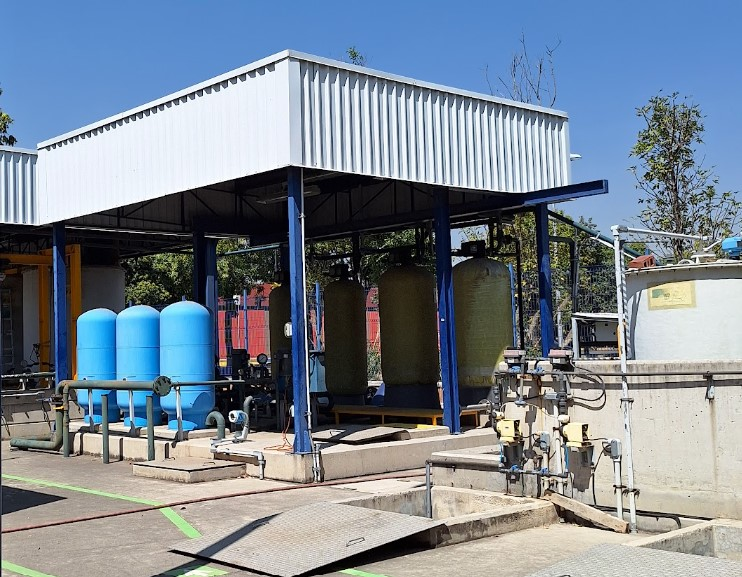
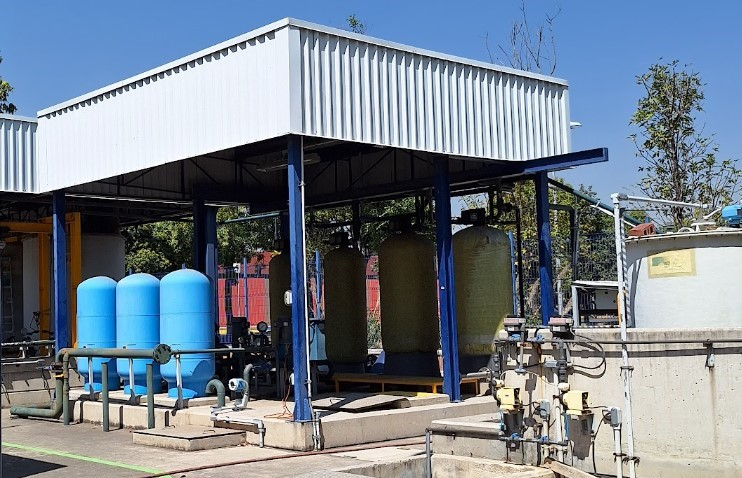
Informacion basica en index

diff --git a/Frontend/Inicio/index.html b/Frontend/Inicio/index.html
@@ -56,20 +56,158 @@
 
 
   <!-- CONTENIDO DE EJEMPLO -->
-  <main class="mt-4">
+  <main class="mt-6">
     <div class="container bg-info-section" id="informacion">
-      <div class="row">
-        <div class="text-center col-md-100">
-          <h1 class="letra-grande">PTAR: Panta de Tratamiento de Aguas Residuales</h1>
-          <p class="letra-subtitulo">La Planta de Tratamiento de Aguas Residuales (PTAR) de la FES Acatlán es un sistema diseñado para procesar y reutilizar el agua residual del campus, promoviendo la sustentabilidad y el cuidado del medio ambiente.</p>
-          <!-- resto del texto -->
+      <div class="row justify-content-center">
+        <div class="col-12 text-center mb-4">
+        <h1 class="letra-grande">PTAR: Planta de Tratamiento de Aguas Residuales</h1>
+        <p class="letra-subtitulo">
+          La Planta de Tratamiento de Aguas Residuales (PTAR) de la FES Acatlán es un sistema diseñado para procesar y reutilizar el agua residual del campus, promoviendo la sustentabilidad y el cuidado del medio ambiente.
+        </p>
+      </div>
+
+      <!-- Miniatura 1 -->
+      <div class="col-12 col-md-3">
+        <img
+          src="/IMG/PTAR_MOD.jpeg"
+          alt="PTAR Mod"
+          class="thumbnail-img img-fluid"
+          data-bs-toggle="modal"
+          data-bs-target="#imageModal"
+          data-bs-image="/IMG/PTAR_MOD.jpeg"
+        >
+      </div>
+
+      <!-- Miniatura 2 -->
+      <div class="col-12 col-md-3 ">
+        <img
+          src="/IMG/PTAR_FOTO1.jpg"
+          alt="PTAR Vista"
+          class="thumbnail-img img-fluid"
+          data-bs-toggle="modal"
+          data-bs-target="#imageModal"
+          data-bs-image="/IMG/PTAR_FOTO1.jpg"
+        >
+      </div>
+
+    </div>
+  </div>
+
+  <div class="container bg-info-section py-5" id="informacion2">
+    <div class="row">
+      <!-- OBJETIVO -->
+      <div class="col-md-6 text-center mb-4">
+        <h2 class="styled-heading">Objetivo</h2>
+        <button
+          class="btn btn-outline-light btn-sm mb-3"
+          type="button"
+          data-bs-toggle="collapse"
+          data-bs-target="#collapseObjetivo"
+          aria-expanded="false"
+          aria-controls="collapseObjetivo">
+          Ver más
+        </button>
+        <div class="collapse" id="collapseObjetivo">
+          <p class="text-white">
+            Construir y poner en marcha la operación de la planta de tratamiento
+            de aguas residuales para el riego de las áreas verdes de la FES
+            Acatlán, a fin de minimizar el impacto ecológico, así como coadyuvar
+            con la preservación del vital líquido suministrado por el pozo.
+          </p>
+          <img
+            src="/IMG/DigramaPTAR.png"
+            alt="Diagrama PTAR"
+            class="img-fluid d-block mx-auto mt-3">
         </div>
-        <div>
-          <!--img src="/IMG/PTAR_MOD.jpeg" class="img-fluid mb-3" alt="PTAR"-->
-          <img src="/IMG/PTAR_FOTO1.jpg" class="im" alt="PTAR vista">
+      </div>
+
+      <!-- IMPACTO Y BENEFICIO SOCIAL -->
+      <div class="col-md-6 text-center mb-4">
+        <h2 class="styled-heading">Impacto y Beneficio Social</h2>
+        <button
+          class="btn btn-outline-light btn-sm mb-3"
+          type="button"
+          data-bs-toggle="collapse"
+          data-bs-target="#collapseImpacto"
+          aria-expanded="false"
+          aria-controls="collapseImpacto">
+          Ver más
+        </button>
+        <div class="collapse" id="collapseImpacto">
+          <ul class="text-white text-start">
+            <li>Tratamiento de aguas residuales generadas por la comunidad.</li>
+            <li>Disminución de descarga a la red municipal para conservación.</li>
+            <li>Riego de áreas verdes con agua tratada, sustituyendo agua potable.</li>
+            <li>Cumplimiento de los objetivos de la Universidad Sustentable.</li>
+            <li>Fortalecimiento del conocimiento ambiental en la comunidad.</li>
+          </ul>
+          <img
+            src="/IMG/FotodeReactor.jpg"
+            alt="Reactor PTAR"
+            class="img-fluid d-block mx-auto mt-3">
         </div>
       </div>
     </div>
+
+    <!-- EJEMPLO DE OTRA SECCIÓN: ASPECTOS ACADÉMICOS -->
+    <div class="row">
+      <div class="col-md-6 text-center mb-4">
+        <h2 class="styled-heading">Aspectos Académicos</h2>
+        <button
+          class="btn btn-outline-light btn-sm mb-3"
+          type="button"
+          data-bs-toggle="collapse"
+          data-bs-target="#collapseAcademicos"
+          aria-expanded="false"
+          aria-controls="collapseAcademicos">
+          Ver más
+        </button>
+        <div class="collapse" id="collapseAcademicos">
+          <p class="text-white">
+            La PTAR sirve como laboratorio vivo para asignaturas de Ingeniería
+            Ambiental, Biotecnología y Ciencias del Agua, aportando prácticas
+            de campo y proyectos de investigación.
+          </p>
+          <img
+            src="/IMG/PrototipoPracticas.jpg"
+            alt="Aspectos Académicos"
+            class="img-fluid d-block mx-auto mt-3">
+        </div>
+      </div>
+      
+      <div class="col-md-6 text-center mb-4">
+        <h2 class="styled-heading">Ventajas</h2>
+        <button
+          class="btn btn-outline-light btn-sm mb-3"
+          type="button"
+          data-bs-toggle="collapse"
+          data-bs-target="#collapseAcademicos"
+          aria-expanded="false"
+          aria-controls="collapseAcademicos">
+          Ver más
+        </button>
+        <div class="collapse" id="collapseAcademicos">
+          <ul class="text-white text-start">
+            <li>Baja Inversión.</li>
+            <li>Bajos costos de operación y mantenimiento.</li>
+            <li>Resiste largos tiempos sin alimentación de sustrato.</li>
+            <li>Baja   producción   de    lodos,    ya   estabilizados   y espesados.</li>
+            <li>Remoción  de  materia  orgánica  entre  60  y  80% según el tipo de agua residual.</li>
+          </ul>
+          <img
+            src="/IMG/reactor1_anaerobico.jpg"
+            alt="Aspectos Académicos"
+            class="img-fluid d-block mx-auto mt-3">
+        </div>
+      </div>
+
+      <!-- PUEDES AÑADIR AQUÍ MÁS SECCIONES -->
+    </div>
+   
+
+      <!-- PUEDES AÑADIR AQUÍ MÁS SECCIONES -->
+    
+  </div>
   </main>
 
   <!-- FOOTER -->

diff --git a/Frontend/Inicio/Index.css b/Frontend/Inicio/Index.css
@@ -106,3 +106,58 @@ img, iframe {
 .letra_navar{
   color: aliceblue;
 }
+/* color por defecto: blanco */
+.navbar-nav .nav-link {
+  color: white !important;
+  transition: color 0.3s ease;
+}
+
+/* color al pasar el ratón (mantenlo como ya lo tengas) */
+.navbar-nav .nav-link.hover-color {
+  color: rgb(220, 213, 20) !important; /* o el color que prefieras */
+}
+btn-link {
+  text-decoration: none;
+  font-size: 1.5rem;      /* ajusta tamaño si lo necesitas */
+}
+.btn-link:hover {
+  text-decoration: underline;
+}
+
+/* Asegúrate de que el container no tenga padding excesivo */
+/* Estilo atractivo para los headings */
+.styled-heading {
+  background: linear-gradient(90deg, #0062E6, #33AEFF);
+  -webkit-background-clip: text;
+  -webkit-text-fill-color: transparent;
+  font-size: 1.75rem;
+  font-weight: 700;
+  margin-bottom: 0.5rem;
+}
+
+/* Asegura que los botones “Ver más” destaquen sobre el fondo */
+#informacion2 .btn-outline-light {
+  border-color: #ffffff80;
+  color: #fff;
+}
+
+#informacion2 .btn-outline-light:hover {
+  background-color: rgba(255,255,255,0.1);
+}
+
+/* Ajustes de espaciado */
+#informacion2 p,
+#informacion2 ul {
+  margin-bottom: 0;
+}
+
+.thumbnail-img {
+  max-width: 320px;    /* ajusta al ancho que quieras */
+  height: 200px;
+  cursor: pointer;
+  border-radius: 1.5rem;
+  transition: transform 0.2s ease;
+}
+.thumbnail-img:hover {
+  transform: scale(3.05);
+}

diff --git a/Frontend/Inicio/index.js b/Frontend/Inicio/index.js
@@ -1,4 +1,3 @@
-// js/navbar-hover.js
 document.addEventListener('DOMContentLoaded', () => {
   const navLinks = document.querySelectorAll('.nav-link');
   navLinks.forEach(link => {
@@ -8,5 +7,16 @@ document.addEventListener('DOMContentLoaded', () => {
     link.addEventListener('mouseout', () => {
       link.classList.remove('hover-color');
     });
+  });
+});
+document.addEventListener('DOMContentLoaded', () => {
+  const imageModal = document.getElementById('imageModal');
+  imageModal.addEventListener('show.bs.modal', event => {
+    const thumb = event.relatedTarget;                              // miniatura que disparó
+    const src   = thumb.getAttribute('data-bs-image');              // ruta real
+    const alt   = thumb.getAttribute('alt') || '';
+    const modalImg = imageModal.querySelector('#modalImage');
+    modalImg.src = src;
+    modalImg.alt = alt;
   });
 });
